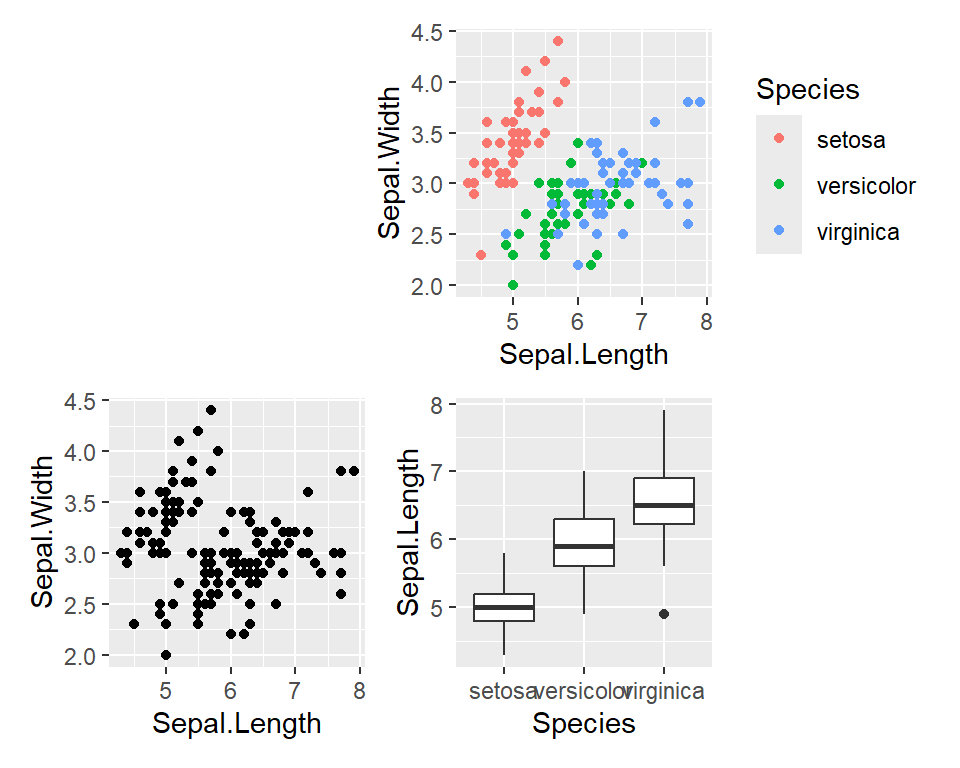
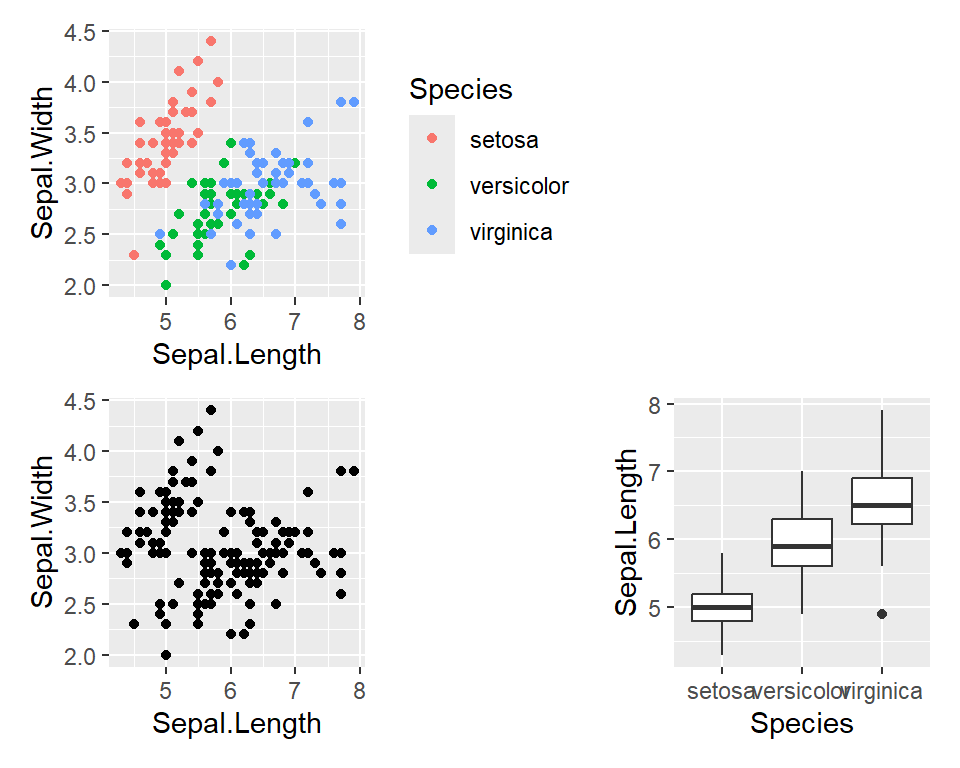
u

diff --git a/_posts/2025-01-24-post-39-lay-them-out-arranging-multiple-ggplots-with-patchwork/post-39-lay-them-out-arranging-multiple-ggplots-with-patchwork.html b/_posts/2025-01-24-post-39-lay-them-out-arranging-multiple-ggplots-with-patchwork/post-39-lay-them-out-arranging-multiple-ggplots-with-patchwork.html
@@ -118,7 +118,7 @@ code span.wa { color: #5e5e5e; font-style: italic; } /* Warning */
   <!--/radix_placeholder_rmarkdown_metadata-->
   
   <script type="text/json" id="radix-resource-manifest">
-  {"type":"character","attributes":{},"value":["post-39-lay-them-out-arranging-multiple-ggplots-with-patchwork_files/anchor-4.2.2/anchor.min.js","post-39-lay-them-out-arranging-multiple-ggplots-with-patchwork_files/bowser-1.9.3/bowser.min.js","post-39-lay-them-out-arranging-multiple-ggplots-with-patchwork_files/distill-2.2.21/template.v2.js","post-39-lay-them-out-arranging-multiple-ggplots-with-patchwork_files/figure-html5/unnamed-chunk-10-1.png","post-39-lay-them-out-arranging-multiple-ggplots-with-patchwork_files/figure-html5/unnamed-chunk-11-1.png","post-39-lay-them-out-arranging-multiple-ggplots-with-patchwork_files/figure-html5/unnamed-chunk-11-2.png","post-39-lay-them-out-arranging-multiple-ggplots-with-patchwork_files/figure-html5/unnamed-chunk-11-3.png","post-39-lay-them-out-arranging-multiple-ggplots-with-patchwork_files/figure-html5/unnamed-chunk-11-4.png","post-39-lay-them-out-arranging-multiple-ggplots-with-patchwork_files/figure-html5/unnamed-chunk-11-5.png","post-39-lay-them-out-arranging-multiple-ggplots-with-patchwork_files/figure-html5/unnamed-chunk-11-6.png","post-39-lay-them-out-arranging-multiple-ggplots-with-patchwork_files/figure-html5/unnamed-chunk-11-7.png","post-39-lay-them-out-arranging-multiple-ggplots-with-patchwork_files/figure-html5/unnamed-chunk-11-8.png","post-39-lay-them-out-arranging-multiple-ggplots-with-patchwork_files/figure-html5/unnamed-chunk-11-9.png","post-39-lay-them-out-arranging-multiple-ggplots-with-patchwork_files/figure-html5/unnamed-chunk-12-1.png","post-39-lay-them-out-arranging-multiple-ggplots-with-patchwork_files/figure-html5/unnamed-chunk-13-1.png","post-39-lay-them-out-arranging-multiple-ggplots-with-patchwork_files/figure-html5/unnamed-chunk-13-2.png","post-39-lay-them-out-arranging-multiple-ggplots-with-patchwork_files/figure-html5/unnamed-chunk-14-1.png","post-39-lay-them-out-arranging-multiple-ggplots-with-patchwork_files/figure-html5/unnamed-chunk-2-1.png","post-39-lay-them-out-arranging-multiple-ggplots-with-patchwork_files/figure-html5/unnamed-chunk-3-1.png","post-39-lay-them-out-arranging-multiple-ggplots-with-patchwork_files/figure-html5/unnamed-chunk-4-1.png","post-39-lay-them-out-arranging-multiple-ggplots-with-patchwork_files/figure-html5/unnamed-chunk-5-1.png","post-39-lay-them-out-arranging-multiple-ggplots-with-patchwork_files/figure-html5/unnamed-chunk-5-2.png","post-39-lay-them-out-arranging-multiple-ggplots-with-patchwork_files/figure-html5/unnamed-chunk-5-3.png","post-39-lay-them-out-arranging-multiple-ggplots-with-patchwork_files/figure-html5/unnamed-chunk-6-1.png","post-39-lay-them-out-arranging-multiple-ggplots-with-patchwork_files/figure-html5/unnamed-chunk-7-1.png","post-39-lay-them-out-arranging-multiple-ggplots-with-patchwork_files/figure-html5/unnamed-chunk-8-1.png","post-39-lay-them-out-arranging-multiple-ggplots-with-patchwork_files/figure-html5/unnamed-chunk-9-1.png","post-39-lay-them-out-arranging-multiple-ggplots-with-patchwork_files/header-attrs-2.29/header-attrs.js","post-39-lay-them-out-arranging-multiple-ggplots-with-patchwork_files/jquery-3.6.0/jquery-3.6.0.js","post-39-lay-them-out-arranging-multiple-ggplots-with-patchwork_files/jquery-3.6.0/jquery-3.6.0.min.js","post-39-lay-them-out-arranging-multiple-ggplots-with-patchwork_files/jquery-3.6.0/jquery-3.6.0.min.map","post-39-lay-them-out-arranging-multiple-ggplots-with-patchwork_files/popper-2.6.0/popper.min.js","post-39-lay-them-out-arranging-multiple-ggplots-with-patchwork_files/tippy-6.2.7/tippy-bundle.umd.min.js","post-39-lay-them-out-arranging-multiple-ggplots-with-patchwork_files/tippy-6.2.7/tippy-light-border.css","post-39-lay-them-out-arranging-multiple-ggplots-with-patchwork_files/tippy-6.2.7/tippy.css","post-39-lay-them-out-arranging-multiple-ggplots-with-patchwork_files/tippy-6.2.7/tippy.umd.min.js","post-39-lay-them-out-arranging-multiple-ggplots-with-patchwork_files/webcomponents-2.0.0/webcomponents.js"]}
+  {"type":"character","attributes":{},"value":["post-39-lay-them-out-arranging-multiple-ggplots-with-patchwork_files/anchor-4.2.2/anchor.min.js","post-39-lay-them-out-arranging-multiple-ggplots-with-patchwork_files/bowser-1.9.3/bowser.min.js","post-39-lay-them-out-arranging-multiple-ggplots-with-patchwork_files/distill-2.2.21/template.v2.js","post-39-lay-them-out-arranging-multiple-ggplots-with-patchwork_files/figure-html5/unnamed-chunk-10-1.png","post-39-lay-them-out-arranging-multiple-ggplots-with-patchwork_files/figure-html5/unnamed-chunk-11-1.png","post-39-lay-them-out-arranging-multiple-ggplots-with-patchwork_files/figure-html5/unnamed-chunk-11-2.png","post-39-lay-them-out-arranging-multiple-ggplots-with-patchwork_files/figure-html5/unnamed-chunk-11-3.png","post-39-lay-them-out-arranging-multiple-ggplots-with-patchwork_files/figure-html5/unnamed-chunk-11-4.png","post-39-lay-them-out-arranging-multiple-ggplots-with-patchwork_files/figure-html5/unnamed-chunk-11-5.png","post-39-lay-them-out-arranging-multiple-ggplots-with-patchwork_files/figure-html5/unnamed-chunk-11-6.png","post-39-lay-them-out-arranging-multiple-ggplots-with-patchwork_files/figure-html5/unnamed-chunk-11-7.png","post-39-lay-them-out-arranging-multiple-ggplots-with-patchwork_files/figure-html5/unnamed-chunk-11-8.png","post-39-lay-them-out-arranging-multiple-ggplots-with-patchwork_files/figure-html5/unnamed-chunk-11-9.png","post-39-lay-them-out-arranging-multiple-ggplots-with-patchwork_files/figure-html5/unnamed-chunk-12-1.png","post-39-lay-them-out-arranging-multiple-ggplots-with-patchwork_files/figure-html5/unnamed-chunk-13-1.png","post-39-lay-them-out-arranging-multiple-ggplots-with-patchwork_files/figure-html5/unnamed-chunk-13-2.png","post-39-lay-them-out-arranging-multiple-ggplots-with-patchwork_files/figure-html5/unnamed-chunk-14-1.png","post-39-lay-them-out-arranging-multiple-ggplots-with-patchwork_files/figure-html5/unnamed-chunk-14-2.png","post-39-lay-them-out-arranging-multiple-ggplots-with-patchwork_files/figure-html5/unnamed-chunk-2-1.png","post-39-lay-them-out-arranging-multiple-ggplots-with-patchwork_files/figure-html5/unnamed-chunk-3-1.png","post-39-lay-them-out-arranging-multiple-ggplots-with-patchwork_files/figure-html5/unnamed-chunk-4-1.png","post-39-lay-them-out-arranging-multiple-ggplots-with-patchwork_files/figure-html5/unnamed-chunk-5-1.png","post-39-lay-them-out-arranging-multiple-ggplots-with-patchwork_files/figure-html5/unnamed-chunk-5-2.png","post-39-lay-them-out-arranging-multiple-ggplots-with-patchwork_files/figure-html5/unnamed-chunk-5-3.png","post-39-lay-them-out-arranging-multiple-ggplots-with-patchwork_files/figure-html5/unnamed-chunk-6-1.png","post-39-lay-them-out-arranging-multiple-ggplots-with-patchwork_files/figure-html5/unnamed-chunk-7-1.png","post-39-lay-them-out-arranging-multiple-ggplots-with-patchwork_files/figure-html5/unnamed-chunk-8-1.png","post-39-lay-them-out-arranging-multiple-ggplots-with-patchwork_files/figure-html5/unnamed-chunk-9-1.png","post-39-lay-them-out-arranging-multiple-ggplots-with-patchwork_files/header-attrs-2.29/header-attrs.js","post-39-lay-them-out-arranging-multiple-ggplots-with-patchwork_files/jquery-3.6.0/jquery-3.6.0.js","post-39-lay-them-out-arranging-multiple-ggplots-with-patchwork_files/jquery-3.6.0/jquery-3.6.0.min.js","post-39-lay-them-out-arranging-multiple-ggplots-with-patchwork_files/jquery-3.6.0/jquery-3.6.0.min.map","post-39-lay-them-out-arranging-multiple-ggplots-with-patchwork_files/popper-2.6.0/popper.min.js","post-39-lay-them-out-arranging-multiple-ggplots-with-patchwork_files/tippy-6.2.7/tippy-bundle.umd.min.js","post-39-lay-them-out-arranging-multiple-ggplots-with-patchwork_files/tippy-6.2.7/tippy-light-border.css","post-39-lay-them-out-arranging-multiple-ggplots-with-patchwork_files/tippy-6.2.7/tippy.css","post-39-lay-them-out-arranging-multiple-ggplots-with-patchwork_files/tippy-6.2.7/tippy.umd.min.js","post-39-lay-them-out-arranging-multiple-ggplots-with-patchwork_files/webcomponents-2.0.0/webcomponents.js"]}
   </script>
   <!--radix_placeholder_navigation_in_header-->
   <!--/radix_placeholder_navigation_in_header-->
@@ -1762,12 +1762,12 @@ div.l-body img {
 <div class="layout-chunk" data-layout="l-body">
 <div class="sourceCode">
 <pre class="sourceCode r"><code class="sourceCode r"><span><span class='co'>### 1. Free the right panel border of p2</span></span>
-<span><span class='va'>p1</span> <span class='op'>/</span> <span class='fu'><a href='https://patchwork.data-imaginist.com/reference/free.html'>free</a></span><span class='op'>(</span><span class='va'>p2</span>, type <span class='op'>=</span> <span class='st'>"panel"</span>, side <span class='op'>=</span> <span class='st'>"r"</span><span class='op'>)</span> <span class='op'>/</span> <span class='va'>p3</span>  <span class='co'># the right panel border of p2 is no longer aligned with those of p1 and p3</span></span></code></pre>
+<span><span class='va'>p1</span> <span class='op'>/</span> <span class='fu'><a href='https://patchwork.data-imaginist.com/reference/free.html'>free</a></span><span class='op'>(</span><span class='va'>p2</span>, type <span class='op'>=</span> <span class='st'>"panel"</span>, side <span class='op'>=</span> <span class='st'>"r"</span><span class='op'>)</span> <span class='op'>/</span> <span class='va'>p3</span>  <span class='co'># the right panel border of p2 is no longer forced to be aligned with those of p1 and p3</span></span></code></pre>
 </div>
 <p><img src="post-39-lay-them-out-arranging-multiple-ggplots-with-patchwork_files/figure-html5/unnamed-chunk-12-1.png" width="384" style="display: block; margin: auto;" /></p>
 </div>
 <ol start="2" type="1">
-<li>Free the axis label. When we combine plots with different axis text lengths, all the axis labels will be aligned to the farthest one, leading to extra white space between axis text and label. We can adjust this by freeing the axis label of the plot with extra white space so that the label can come back to its original position:</li>
+<li>Free the axis label. When we combine plots with different axis text lengths, all the axis labels will be aligned with the farthest one, leading to extra white space between axis text and label. We can adjust this by freeing the axis label of the plot with extra white space so that the label can come back to its original position:</li>
 </ol>
 <div class="layout-chunk" data-layout="l-body">
 <div class="sourceCode">
@@ -1775,7 +1775,7 @@ div.l-body img {
 <span><span class='va'>p2_long_axis_text</span> <span class='op'>&lt;-</span> <span class='va'>p2</span> <span class='op'>+</span> <span class='fu'><a href='https://ggplot2.tidyverse.org/reference/scale_continuous.html'>scale_y_continuous</a></span><span class='op'>(</span>labels <span class='op'>=</span> <span class='op'>~</span> <span class='fu'><a href='https://rdrr.io/r/base/format.html'>format</a></span><span class='op'>(</span><span class='fu'><a href='https://rdrr.io/r/base/numeric.html'>as.numeric</a></span><span class='op'>(</span><span class='va'>.x</span><span class='op'>)</span>, nsmall <span class='op'>=</span> <span class='fl'>5</span><span class='op'>)</span><span class='op'>)</span></span>
 <span></span>
 <span><span class='co'>### Default alignment</span></span>
-<span><span class='va'>p1</span> <span class='op'>/</span> <span class='va'>p2_long_axis_text</span> <span class='op'>/</span><span class='va'>p3</span>  <span class='co'># extra white space between y-axis label and text in p1 and p3</span></span></code></pre>
+<span><span class='va'>p1</span> <span class='op'>/</span> <span class='va'>p2_long_axis_text</span> <span class='op'>/</span> <span class='va'>p3</span>  <span class='co'># extra white space between y-axis label and text in p1 and p3</span></span></code></pre>
 </div>
 <img src="post-39-lay-them-out-arranging-multiple-ggplots-with-patchwork_files/figure-html5/unnamed-chunk-13-1.png" width="480" style="display: block; margin: auto;" />
 <div class="sourceCode">
@@ -1785,15 +1785,24 @@ div.l-body img {
 <p><img src="post-39-lay-them-out-arranging-multiple-ggplots-with-patchwork_files/figure-html5/unnamed-chunk-13-2.png" width="480" style="display: block; margin: auto;" /></p>
 </div>
 <ol start="3" type="1">
-<li>Free the space.</li>
+<li>Free the space. When the plots have legends or long axis text, we can first create some extra empty space using <code>plot_spacer()</code> and let the legends or long axis text to take up the space:</li>
 </ol>
 <div class="layout-chunk" data-layout="l-body">
 <div class="sourceCode">
-<pre class="sourceCode r"><code class="sourceCode r"><span><span class='co'>### by space</span></span>
-<span><span class='fu'><a href='https://patchwork.data-imaginist.com/reference/plot_spacer.html'>plot_spacer</a></span><span class='op'>(</span><span class='op'>)</span> <span class='op'>+</span> <span class='fu'><a href='https://patchwork.data-imaginist.com/reference/free.html'>free</a></span><span class='op'>(</span><span class='va'>p2</span>, type <span class='op'>=</span> <span class='st'>"space"</span>, side <span class='op'>=</span> <span class='st'>"l"</span><span class='op'>)</span> <span class='op'>+</span></span>
-<span>  <span class='va'>p1</span> <span class='op'>+</span> <span class='va'>p3</span></span></code></pre>
+<pre class="sourceCode r"><code class="sourceCode r"><span><span class='co'>### Default alignment</span></span>
+<span><span class='va'>p2</span> <span class='op'>+</span> <span class='fu'><a href='https://patchwork.data-imaginist.com/reference/plot_spacer.html'>plot_spacer</a></span><span class='op'>(</span><span class='op'>)</span> <span class='op'>+</span> <span class='va'>p1</span> <span class='op'>+</span> <span class='va'>p3</span>  <span class='co'># the legend of p2 creates a space gap between p1 and p3</span></span></code></pre>
 </div>
-<p><img src="post-39-lay-them-out-arranging-multiple-ggplots-with-patchwork_files/figure-html5/unnamed-chunk-14-1.png" width="480" style="display: block; margin: auto;" /></p>
+<img src="post-39-lay-them-out-arranging-multiple-ggplots-with-patchwork_files/figure-html5/unnamed-chunk-14-1.png" width="480" style="display: block; margin: auto;" />
+<div class="sourceCode">
+<pre class="sourceCode r"><code class="sourceCode r"><span><span class='co'>### 3. Free the space to the right of p2</span></span>
+<span><span class='fu'><a href='https://patchwork.data-imaginist.com/reference/free.html'>free</a></span><span class='op'>(</span><span class='va'>p2</span>, type <span class='op'>=</span> <span class='st'>"space"</span>, side <span class='op'>=</span> <span class='st'>"r"</span><span class='op'>)</span> <span class='op'>+</span> <span class='fu'><a href='https://patchwork.data-imaginist.com/reference/plot_spacer.html'>plot_spacer</a></span><span class='op'>(</span><span class='op'>)</span> <span class='op'>+</span> <span class='va'>p1</span> <span class='op'>+</span> <span class='va'>p3</span>  <span class='co'># now the legend of p2 can take up the white space created by plot_spacer()</span></span></code></pre>
+</div>
+<p><img src="post-39-lay-them-out-arranging-multiple-ggplots-with-patchwork_files/figure-html5/unnamed-chunk-14-2.png" width="480" style="display: block; margin: auto;" /></p>
+</div>
+<p>This is a good segue into our third topic: legends.</p>
+<h3 id="legend-combine-remove-position">Legend (combine, remove, position)</h3>
+<div class="layout-chunk" data-layout="l-body">
+
 </div>
 <h2 id="summary">Summary</h2>
 <p>Hope you learn something useful from this post and don’t forget to leave your comments and suggestions below if you have any!</p>
